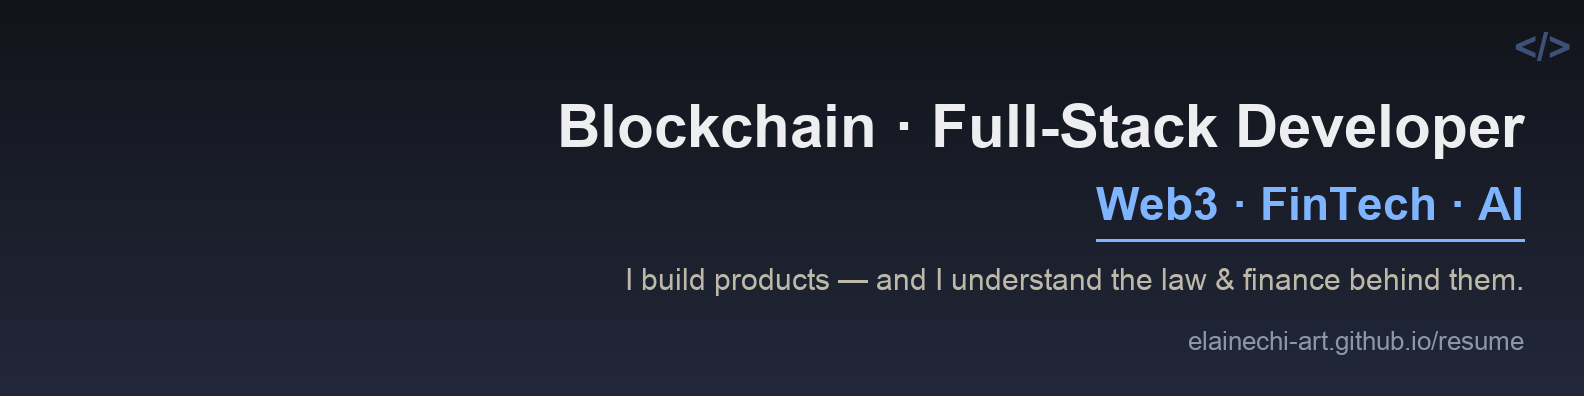
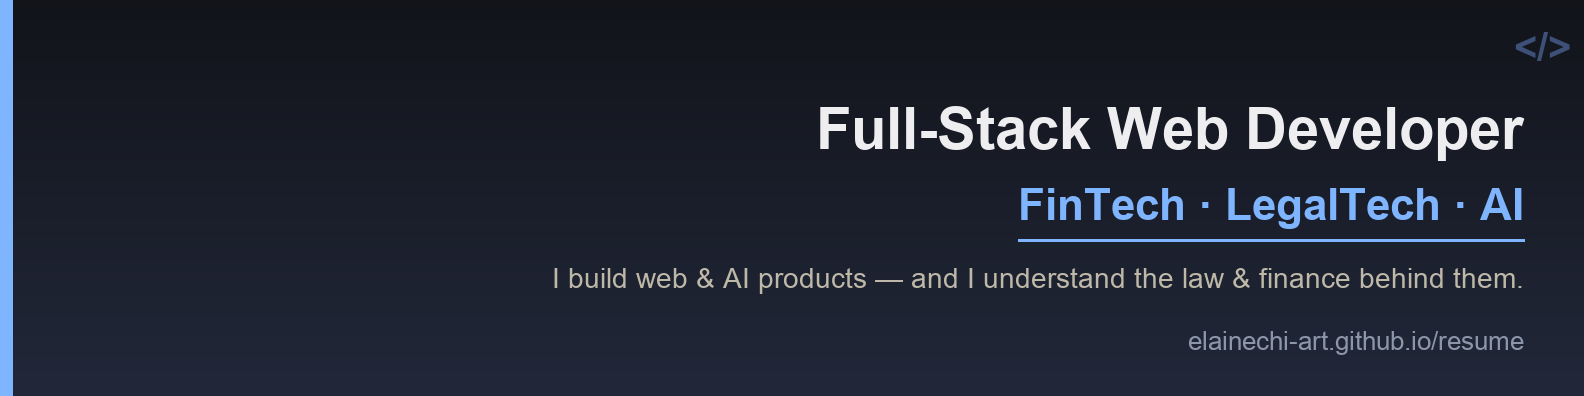
Recalibrate positioning to honest full-stack web builder (AI-native) + law/finance edge

diff --git a/resume/index.html b/resume/index.html
@@ -3,14 +3,14 @@
 <head>
 <meta charset="UTF-8">
 <meta name="viewport" content="width=device-width, initial-scale=1.0">
-<title>Elaine Chi — Blockchain &amp; Full-Stack Developer · Web3 / FinTech</title>
+<title>Elaine Chi — Full-Stack Web Developer · FinTech / LegalTech / AI</title>
 <meta name="description" content="Most people who understand financial law can&#x27;t build software. Most engineers don&#x27;t understand financial regulation. I do both.
 
 I&#x27;m a Technology Law LL.M.">
 <meta name="author" content="Elaine Chi">
 <meta name="robots" content="index,follow">
 <meta property="og:type" content="profile">
-<meta property="og:title" content="Elaine Chi — Blockchain &amp; Full-Stack Developer · Web3 / FinTech">
+<meta property="og:title" content="Elaine Chi — Full-Stack Web Developer · FinTech / LegalTech / AI">
 <meta property="og:description" content="Most people who understand financial law can&#x27;t build software. Most engineers don&#x27;t understand financial regulation. I do both.
 
 I&#x27;m a Technology Law LL.M.">
@@ -21,7 +21,7 @@ I&#x27;m a Technology Law LL.M.">
 <meta name="twitter:card" content="summary_large_image">
 <meta name="twitter:image" content="https://elainechi-art.github.io/resume/img/cover.png">
 <link rel="canonical" href="https://elainechi-art.github.io/resume/">
-<script type="application/ld+json">{"@context": "https://schema.org", "@type": "Person", "name": "Elaine Chi", "jobTitle": "Blockchain & Full-Stack Developer · Web3 / FinTech", "email": "mailto:[email redacted]", "url": "https://elainechi-art.github.io/", "sameAs": ["https://github.com/ElaineChi-art", "https://www.linkedin.com/in/elaine-chi-3384a441b", "https://elainechi-art.github.io/"], "address": "Taiwan · 開放遠端與海外機會 / Open to remote & overseas", "description": "Most people who understand financial law can't build software. Most engineers don't understand financial regulation. I do both.\n\nI'm a Technology Law LL.M. candidate at NYCU (a top national university in Taiwan), specializing in financial crime, FinTech and virtual-asset (Web3) compliance. I've interned at the Financial Crimes Division of the Taipei District Court and the Financial Ombudsman Institution, and worked as a research assistant on white-collar crime and financial supervision.\n\nBut I don't just write legal memos — I ship. My thesis on smart-contract law and music NFTs became a working, interactive product. I've independently built and launched 6+ live tools, including a smart-contract digital twin with opcode-level EVM tracing and an LSTM financial dashboard that auto-updates every trading day.\n\nI'm looking for developer roles — blockchain/smart-contract, full-stack, or AI engineering — where my law & finance background is a rare edge. Remote or international welcome.\n\nLet's talk → [email redacted]", "knowsAbout": ["智慧合約 Smart Contracts", "EVM opcode 級分析", "音樂 NFT / 版稅分配", "虛擬資產服務法", "Python", "大型語言模型 (LLM) 應用", "生成式 AI", "LSTM 時序預測", "新聞情緒分析", "自動資料聚合", "JavaScript / HTML / CSS", "互動式 3D 數位孿生", "資料視覺化", "響應式 RWD", "中英雙語與語音 (TTS) 介面", "金融刑事法 / 白領犯罪", "金融監理 / 法令遵循", "智慧財產權 / 著作權", "虛擬資產法規"]}</script>
+<script type="application/ld+json">{"@context": "https://schema.org", "@type": "Person", "name": "Elaine Chi", "jobTitle": "Full-Stack Web Developer · FinTech / LegalTech / AI", "email": "mailto:[email redacted]", "url": "https://elainechi-art.github.io/", "sameAs": ["https://github.com/ElaineChi-art", "https://www.linkedin.com/in/elaine-chi-3384a441b", "https://elainechi-art.github.io/"], "address": "Taiwan · 開放遠端與海外機會 / Open to remote & overseas", "description": "Most people who understand financial law can't build software. Most engineers don't understand financial regulation. I do both.\n\nI'm a Technology Law LL.M. candidate at NYCU (a top national university in Taiwan), specializing in financial crime, FinTech and virtual-asset (Web3) compliance. I've interned at the Financial Crimes Division of the Taipei District Court and the Financial Ombudsman Institution, and worked as a research assistant on white-collar crime and financial supervision.\n\nBut I don't just write legal memos — I ship. I've independently built and launched 6+ live web products (directing AI tools end to end), including an interactive visualization of how smart-contract royalty splits work and a financial dashboard combining market data with news sentiment.\n\nI'm looking for developer roles — full-stack / front-end web, or AI-focused product work — where my law & finance background is a rare edge. Remote or international welcome.\n\nLet's talk → [email redacted]", "knowsAbout": ["JavaScript / HTML / CSS", "互動式網頁與 3D 視覺化", "資料視覺化", "響應式 RWD", "API 整合", "GitHub Pages 部署", "中英雙語與語音 (TTS) 介面", "Claude Code / AI 工具主導開發", "Python", "大型語言模型 (LLM) 應用", "生成式 AI", "自動資料聚合", "金融刑事法 / 白領犯罪", "金融監理 / 法令遵循", "智慧財產權 / 著作權", "虛擬資產法規", "智慧合約概念", "EVM / opcode 理解", "音樂 NFT / 版稅設計", "虛擬資產服務法"]}</script>
 <style>
   *{box-sizing:border-box;margin:0;padding:0}
   body{font-family:"Inter","PingFang TC","Microsoft JhengHei",system-ui,sans-serif;
@@ -82,27 +82,27 @@ I&#x27;m a Technology Law LL.M.">
     <img class="avatar" src="img/photo.png" alt="Elaine Chi">
     <div><span class="oa"><span class="en">🟢 Open to opportunities</span><span class="zh">🟢 開放工作機會</span></span></div>
     <h1>Elaine Chi</h1>
-    <div class="role"><span class="en">Blockchain &amp; Full-Stack Developer · Web3 / FinTech</span><span class="zh">區塊鏈・全端工程師 · Web3／金融科技</span></div>
-    <div class="tagline"><span class="en">I build Web3 &amp; AI products — and I understand the law and finance behind them.</span><span class="zh">我打造 Web3 與 AI 產品，也懂背後的法律與金融。</span></div>
+    <div class="role"><span class="en">Full-Stack Web Developer · FinTech / LegalTech / AI</span><span class="zh">全端網頁開發者 · 金融科技／法律科技／AI</span></div>
+    <div class="tagline"><span class="en">I build web &amp; AI products — and I understand the law and finance behind them.</span><span class="zh">我打造網頁與 AI 產品，也懂背後的法律與金融。</span></div>
     <div class="loc">📍 Taiwan · 開放遠端與海外機會 / Open to remote &amp; overseas</div>
     <div class="contacts"><a href="mailto:[email redacted]">✉️ [email redacted]</a> · <a href="https://github.com/ElaineChi-art" target="_blank">💻 GitHub</a> · <a href="https://www.linkedin.com/in/elaine-chi-3384a441b" target="_blank">🔗 LinkedIn</a> · <a href="https://elainechi-art.github.io/" target="_blank"><span class="en">🌐 All projects</span><span class="zh">🌐 作品總站</span></a></div>
-    <div class="targets"><span class="en"><span class="tag">Blockchain / Smart-Contract Developer</span><span class="tag">Full-Stack Developer</span><span class="tag">AI Engineer</span><span class="tag">Web3 / FinTech Engineer</span></span><span class="zh"><span class="tag">區塊鏈／智慧合約工程師</span><span class="tag">全端工程師</span><span class="tag">AI 工程師</span><span class="tag">Web3／金融科技工程師</span></span></div>
+    <div class="targets"><span class="en"><span class="tag">Full-Stack Developer</span><span class="tag">Front-End Developer</span><span class="tag">LegalTech / FinTech Product</span><span class="tag">Web Developer</span></span><span class="zh"><span class="tag">全端工程師</span><span class="tag">前端工程師</span><span class="tag">法律科技／金融科技產品</span><span class="tag">網頁工程師</span></span></div>
   </header>
 
-  <section><h2><span class="en">About</span><span class="zh">關於我</span></h2><p class="summary"><span class="en">Most people who understand financial law can&#x27;t build software. Most engineers don&#x27;t understand financial regulation. I do both.<br><br>I&#x27;m a Technology Law LL.M. candidate at NYCU (a top national university in Taiwan), specializing in financial crime, FinTech and virtual-asset (Web3) compliance. I&#x27;ve interned at the Financial Crimes Division of the Taipei District Court and the Financial Ombudsman Institution, and worked as a research assistant on white-collar crime and financial supervision.<br><br>But I don&#x27;t just write legal memos — I ship. My thesis on smart-contract law and music NFTs became a working, interactive product. I&#x27;ve independently built and launched 6+ live tools, including a smart-contract digital twin with opcode-level EVM tracing and an LSTM financial dashboard that auto-updates every trading day.<br><br>I&#x27;m looking for developer roles — blockchain/smart-contract, full-stack, or AI engineering — where my law &amp; finance background is a rare edge. Remote or international welcome.<br><br>Let&#x27;s talk → [email redacted]</span><span class="zh">懂金融法規的人，通常不會寫程式；會寫程式的人，通常不懂金融法規。我，兩個都會。<br><br>我是陽明交通大學科技法律研究所碩士生，專攻金融犯罪、金融科技與虛擬資產（Web3）法遵。曾在台北地方法院金融重罪專庭（重金庭）、金融消費者評議中心實習，並擔任白領犯罪與金融監理的研究助理。<br><br>但我不只是寫法律報告——我做得出來。我的碩論（智慧合約 × 音樂 NFT）被我做成了一個真正能互動的產品；我也獨立開發並上線了 6+ 個工具，包括逐 opcode 追蹤的智慧合約數位孿生、每個交易日自動更新的 LSTM 金融儀表板。<br><br>我在找工程師職位——區塊鏈／智慧合約、全端、或 AI 工程——而我的法律與金融背景會是別人沒有的優勢。遠端或海外尤佳。<br><br>聊聊 → [email redacted]</span></p></section>
+  <section><h2><span class="en">About</span><span class="zh">關於我</span></h2><p class="summary"><span class="en">Most people who understand financial law can&#x27;t build software. Most engineers don&#x27;t understand financial regulation. I do both.<br><br>I&#x27;m a Technology Law LL.M. candidate at NYCU (a top national university in Taiwan), specializing in financial crime, FinTech and virtual-asset (Web3) compliance. I&#x27;ve interned at the Financial Crimes Division of the Taipei District Court and the Financial Ombudsman Institution, and worked as a research assistant on white-collar crime and financial supervision.<br><br>But I don&#x27;t just write legal memos — I ship. I&#x27;ve independently built and launched 6+ live web products (directing AI tools end to end), including an interactive visualization of how smart-contract royalty splits work and a financial dashboard combining market data with news sentiment.<br><br>I&#x27;m looking for developer roles — full-stack / front-end web, or AI-focused product work — where my law &amp; finance background is a rare edge. Remote or international welcome.<br><br>Let&#x27;s talk → [email redacted]</span><span class="zh">懂金融法規的人，通常不會寫程式；會寫程式的人，通常不懂金融法規。我，兩個都會。<br><br>我是陽明交通大學科技法律研究所碩士生，專攻金融犯罪、金融科技與虛擬資產（Web3）法遵。曾在台北地方法院金融重罪專庭（重金庭）、金融消費者評議中心實習，並擔任白領犯罪與金融監理的研究助理。<br><br>但我不只是寫法律報告——我做得出來。我獨立做出並上線了 6+ 個網頁產品（從頭到尾主導、用 AI 工具協作完成），包括把智慧合約版稅流程視覺化的互動作品，以及結合行情與新聞情緒的金融儀表板。<br><br>我在找工程師職位——全端／前端網頁、或 AI 相關產品開發——而我的法律與金融背景會是別人沒有的優勢。遠端或海外尤佳。<br><br>聊聊 → [email redacted]</span></p></section>
 
-  <section><h2><span class="en">Core Skills</span><span class="zh">核心技能</span></h2><div class="skgroup"><h4><span class="en">Blockchain / Web3</span><span class="zh">區塊鏈 / Web3</span></h4><div class="chips"><span class="chip">智慧合約 Smart Contracts</span><span class="chip">EVM opcode 級分析</span><span class="chip">音樂 NFT / 版稅分配</span><span class="chip">虛擬資產服務法</span></div></div><div class="skgroup"><h4><span class="en">AI / Data</span><span class="zh">AI / 資料</span></h4><div class="chips"><span class="chip">Python</span><span class="chip">大型語言模型 (LLM) 應用</span><span class="chip">生成式 AI</span><span class="chip">LSTM 時序預測</span><span class="chip">新聞情緒分析</span><span class="chip">自動資料聚合</span></div></div><div class="skgroup"><h4><span class="en">Frontend / Product</span><span class="zh">前端 / 產品</span></h4><div class="chips"><span class="chip">JavaScript / HTML / CSS</span><span class="chip">互動式 3D 數位孿生</span><span class="chip">資料視覺化</span><span class="chip">響應式 RWD</span><span class="chip">中英雙語與語音 (TTS) 介面</span></div></div><div class="skgroup"><h4><span class="en">Domain Edge · Law &amp; Finance</span><span class="zh">領域優勢 · 法律金融</span></h4><div class="chips"><span class="chip">金融刑事法 / 白領犯罪</span><span class="chip">金融監理 / 法令遵循</span><span class="chip">智慧財產權 / 著作權</span><span class="chip">虛擬資產法規</span></div></div></section>
+  <section><h2><span class="en">Core Skills</span><span class="zh">核心技能</span></h2><div class="skgroup"><h4><span class="en">Frontend / Full-Stack Web</span><span class="zh">前端 / 全端網頁</span></h4><div class="chips"><span class="chip">JavaScript / HTML / CSS</span><span class="chip">互動式網頁與 3D 視覺化</span><span class="chip">資料視覺化</span><span class="chip">響應式 RWD</span><span class="chip">API 整合</span><span class="chip">GitHub Pages 部署</span><span class="chip">中英雙語與語音 (TTS) 介面</span></div></div><div class="skgroup"><h4><span class="en">AI-Native Building</span><span class="zh">AI 協作開發</span></h4><div class="chips"><span class="chip">Claude Code / AI 工具主導開發</span><span class="chip">Python</span><span class="chip">大型語言模型 (LLM) 應用</span><span class="chip">生成式 AI</span><span class="chip">自動資料聚合</span></div></div><div class="skgroup"><h4><span class="en">Domain Edge · Law &amp; Finance</span><span class="zh">領域優勢 · 法律金融</span></h4><div class="chips"><span class="chip">金融刑事法 / 白領犯罪</span><span class="chip">金融監理 / 法令遵循</span><span class="chip">智慧財產權 / 著作權</span><span class="chip">虛擬資產法規</span></div></div><div class="skgroup"><h4><span class="en">Blockchain · Web3 (concept &amp; visualization)</span><span class="zh">區塊鏈・Web3（概念與視覺化）</span></h4><div class="chips"><span class="chip">智慧合約概念</span><span class="chip">EVM / opcode 理解</span><span class="chip">音樂 NFT / 版稅設計</span><span class="chip">虛擬資產服務法</span></div></div></section>
 
   <section><h2><span class="en">Selected Work</span><span class="zh">精選作品</span></h2><div class="projects">
       <a class="proj" href="https://elainechi-art.github.io/music-os/ecosystem.html" target="_blank">
-        <div class="proj-ti"><span class="en">Music Royalty OS — Smart-Contract Digital Twin</span><span class="zh">音樂版稅 OS · 智慧合約數位孿生</span></div>
-        <div class="proj-role"><span class="en">Solo design &amp; engineering · ties to my LL.M. thesis</span><span class="zh">獨立設計與開發 · 呼應碩論主題</span></div>
-        <div class="metrics"><span class="metric"><span class="en">Opcode-level EVM tracing</span><span class="zh">opcode 級 EVM 追蹤</span></span><span class="metric"><span class="en">6 stakeholder roles</span><span class="zh">6 種角色視角</span></span><span class="metric"><span class="en">EN / ZH voice</span><span class="zh">中英語音</span></span></div>
+        <div class="proj-ti"><span class="en">Music Royalty OS — Smart-Contract Visualization</span><span class="zh">音樂版稅 OS · 智慧合約視覺化</span></div>
+        <div class="proj-role"><span class="en">Solo build (AI-assisted) · ties to my LL.M. thesis</span><span class="zh">獨立製作（AI 協作）· 呼應碩論主題</span></div>
+        <div class="metrics"><span class="metric"><span class="en">Step-by-step EVM walkthrough</span><span class="zh">逐步呈現 EVM 流程</span></span><span class="metric"><span class="en">6 stakeholder roles</span><span class="zh">6 種角色視角</span></span><span class="metric"><span class="en">EN / ZH voice</span><span class="zh">中英語音</span></span></div>
         <div class="cs"><b class="lbl"><span class="en">Problem</span><span class="zh">問題</span></b> <span class="en">Music royalty splits via smart contracts are opaque — stakeholders can&#x27;t see how money actually flows on-chain.</span><span class="zh">音樂版稅用智慧合約分配時黑箱，各方看不到錢實際在鏈上怎麼流動。</span></div>
-        <div class="cs"><b class="lbl"><span class="en">Approach</span><span class="zh">做法</span></b> <span class="en">Built an interactive 3D digital twin with a contract execution lab that traces royalty splits opcode-by-opcode through EVM storage, plus a full single-track lifecycle simulation.</span><span class="zh">打造互動式 3D 數位孿生，內含合約執行實驗室，逐 opcode 追蹤版稅分配如何寫進 EVM storage，並模擬單曲完整生命週期。</span></div>
-        <div class="cs"><b class="lbl"><span class="en">Impact</span><span class="zh">影響</span></b> <span class="en">Turns an invisible on-chain legal process into something six stakeholder roles can understand — a working demo of my thesis on smart-contract law &amp; music NFTs.</span><span class="zh">把看不見的鏈上法律流程變成六種角色都看得懂的體驗，等於是碩論(智慧合約×音樂NFT)的可運作示範。</span></div>
+        <div class="cs"><b class="lbl"><span class="en">Approach</span><span class="zh">做法</span></b> <span class="en">Built an interactive 3D visualization that walks step-by-step through how smart-contract royalty splits move through EVM storage, plus a single-track lifecycle simulation.</span><span class="zh">打造互動式 3D 視覺化，一步步呈現智慧合約版稅分配如何流經 EVM storage，並模擬單曲完整生命週期。</span></div>
+        <div class="cs"><b class="lbl"><span class="en">Impact</span><span class="zh">影響</span></b> <span class="en">Turns an invisible on-chain process into something six stakeholder roles can understand — a visual companion to my thesis on smart-contract law &amp; music NFTs.</span><span class="zh">把看不見的鏈上流程變成六種角色都看得懂的體驗，是碩論（智慧合約×音樂NFT）的視覺化延伸。</span></div>
         
-        <div class="tags"><span class="tag">JavaScript</span><span class="tag">3D</span><span class="tag">Smart Contracts</span><span class="tag">EVM</span><span class="tag">虛擬資產法</span></div>
+        <div class="tags"><span class="tag">JavaScript</span><span class="tag">3D visualization</span><span class="tag">Smart-contract concepts</span><span class="tag">虛擬資產法</span></div>
       </a>
       <a class="proj" href="https://elainechi-art.github.io/taiwan-stock-dashboard/" target="_blank">
         <div class="proj-ti"><span class="en">Taiwan Stock AI Dashboard</span><span class="zh">台股 AI 儀表板</span></div>